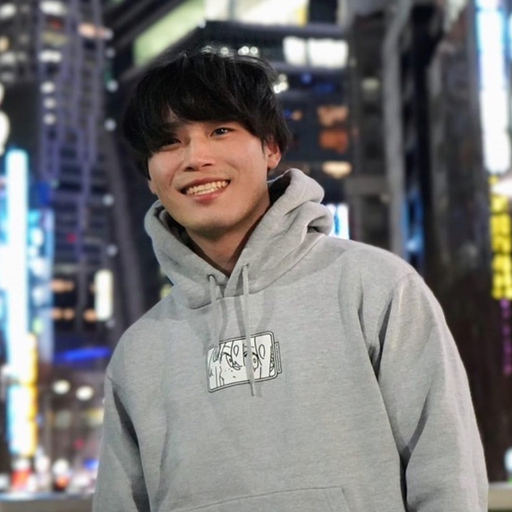
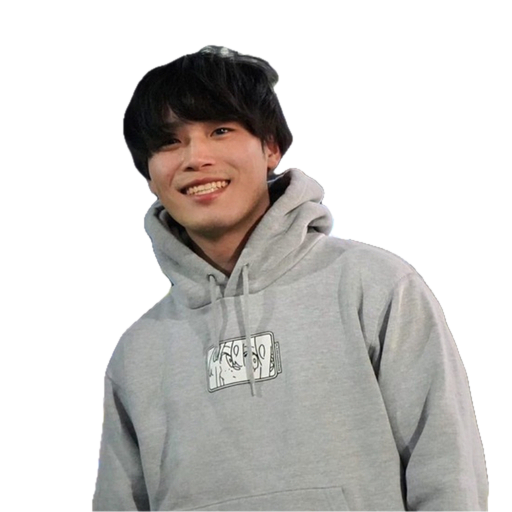
fix(about): align Tomo team portrait

diff --git a/components/team-grid.tsx b/components/team-grid.tsx
@@ -34,7 +34,7 @@ const members = [
   {
     id: "tomo",
     photo: "/team/tomo.png",
-    imageClass: "object-cover object-center",
+    imageClass: "object-contain object-center scale-[0.82] -translate-y-[10%] origin-bottom",
     name: { ja: "鈴田智仁", en: "Tomo Suzuta" },
     role: { ja: "クリエイティブテクノロジスト", en: "Creative Technologist" },
   },
